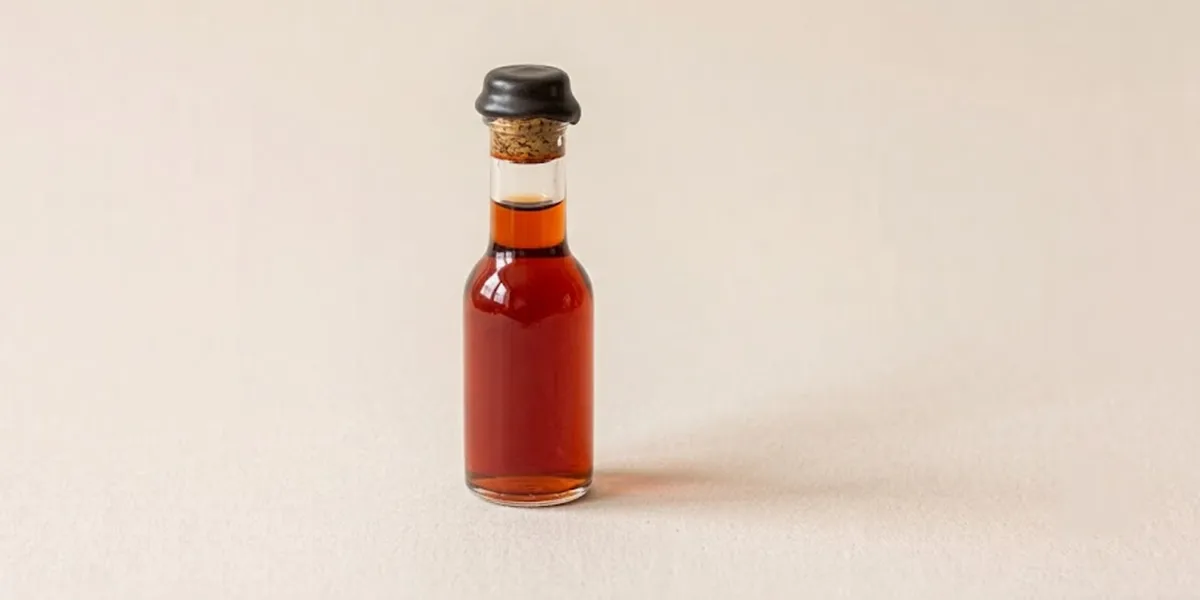
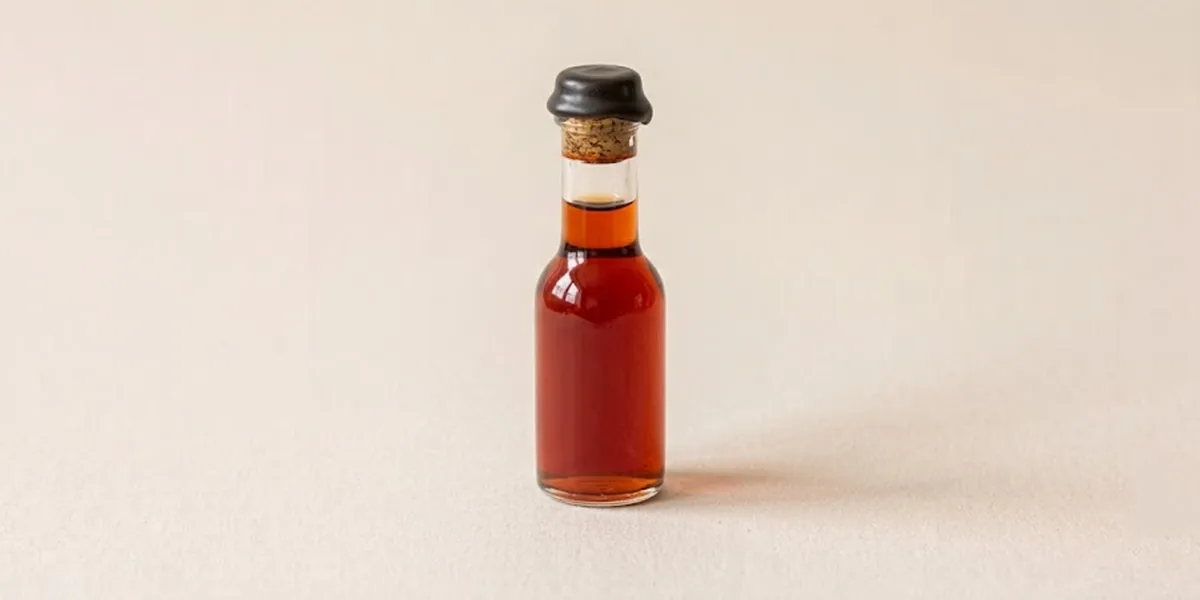
Переработка карточки каталога
- фильтр по классу убран, каталог показывает все шесть позиций
- изображение в край карточки, отступы только у текстовой части
- бирка упрощена: одна полоса поверх низа изображения, полоса города
  удалена, город остался в строке мастерской
- цена отдельной строкой кеглем названия, срок изготовления справа мелко,
  перед строкой разделитель, кнопка под ней
- остаток, состояние мастерской и примечание — одной ремаркой поверх
  изображения в левом верхнем углу
- изображения перекадрированы: предмет по центру, соотношение 2:1

Claude-Session: https://claude.ai/code/session_016DiB3FsN8DV6KWrGAXvXaT

Changed region(s): [[0.37, 0.09, 0.6783, 0.87]]

diff --git a/components/SpellCard.tsx b/components/SpellCard.tsx
@@ -19,63 +19,54 @@ export function SpellCard({ spell }: { spell: Spell }) {
   const isClosed = opensIn > 0
   const opensAt = formatMinutesOfDay(workshop.opensAt)
 
+  // Ремарка на изображении одна: состояние мастерской важнее остатка и примечания.
+  const badge = isClosed
+    ? `закрыто ${DOT} открывается в ${opensAt}`
+    : spell.stock !== undefined
+      ? `осталось ${spell.stock} шт`
+      : spell.note
+
   function handleOrder() {
     selectSpell(spell.id)
     scrollToOrder()
   }
 
   return (
-    <article className="flex flex-col border border-rule p-5">
+    <article className="flex flex-col border border-rule">
       <CargoImage
         id={spell.id}
         name={spell.name}
         hazardClass={spell.hazardClass}
-        city={workshop.city}
         src={spell.image}
+        badge={badge}
       />
 
-      <h3 className="mt-5 text-lg font-medium text-ink">{spell.name}</h3>
-      <p className="mt-1 text-xs text-muted">
-        {workshop.name}
-        {workshop.city ? `, ${workshop.city}` : ''}
-      </p>
-
-      {/* Ситуация в карточке не показывается — она выводится в конфигураторе. */}
-      <p className="mt-4 text-sm leading-relaxed text-ink">{spell.effect}</p>
-
-      <div className="mt-5 flex flex-wrap items-center gap-x-2 gap-y-1 border-t border-rule pt-4 text-xs text-muted">
-        <span>готовится {formatDuration(catalogMinutes(spell))}</span>
-        <span className="text-rule">{DOT}</span>
-        <span className="font-mono text-ink">{formatPrice(spell.price)}</span>
-      </div>
-
-      {spell.stock !== undefined && (
-        <p className="mt-3">
-          <span className="border border-class-2 px-2 py-1 text-xs text-class-2">
-            осталось {spell.stock} шт
-          </span>
+      <div className="flex flex-1 flex-col p-5">
+        <h3 className="text-lg font-medium text-ink">{spell.name}</h3>
+        <p className="mt-1 text-xs text-muted">
+          {workshop.name}
+          {workshop.city ? `, ${workshop.city}` : ''}
         </p>
-      )}
 
-      {isClosed && (
-        <p className="mt-3">
-          <span className="border border-rule px-2 py-1 text-xs text-muted">
-            закрыто {DOT} открывается в {opensAt}
-          </span>
-        </p>
-      )}
+        <p className="mt-4 text-sm leading-relaxed text-ink">{spell.effect}</p>
 
-      {spell.note && <p className="mt-3 text-xs leading-relaxed text-muted">{spell.note}</p>}
+        <div className="mt-auto">
+          <div className="mt-5 flex items-baseline justify-between gap-3 border-t border-rule pt-4">
+            <span className="font-mono text-lg text-ink">{formatPrice(spell.price)}</span>
+            <span className="text-xs text-muted">
+              готовится {formatDuration(catalogMinutes(spell))}
+            </span>
+          </div>
 
-      <div className="mt-auto pt-5">
-        <button
-          type="button"
-          onClick={handleOrder}
-          disabled={isClosed}
-          className="w-full border border-ink bg-ink px-4 py-2.5 text-sm text-paper hover:bg-transparent hover:text-ink disabled:cursor-not-allowed disabled:border-rule disabled:bg-transparent disabled:text-muted"
-        >
-          {isClosed ? `Откроется в ${opensAt}` : 'Оформить'}
-        </button>
+          <button
+            type="button"
+            onClick={handleOrder}
+            disabled={isClosed}
+            className="mt-4 w-full border border-ink bg-ink px-4 py-2.5 text-sm text-paper hover:bg-transparent hover:text-ink disabled:cursor-not-allowed disabled:border-rule disabled:bg-transparent disabled:text-muted"
+          >
+            {isClosed ? `Откроется в ${opensAt}` : 'Оформить'}
+          </button>
+        </div>
       </div>
     </article>
   )

diff --git a/components/CargoImage.tsx b/components/CargoImage.tsx
@@ -9,16 +9,6 @@ const IMAGE_WIDTH = 1200
 const IMAGE_HEIGHT = 600
 const IMAGE_SIZES = '(max-width: 768px) 100vw, 33vw'
 
-type CargoImageProps = {
-  id: string
-  name: string
-  hazardClass: HazardClass
-  city?: string
-  src?: string
-  /** Мини-бирка: только полоса с ромбом и кодом, без области изображения. */
-  compact?: boolean
-}
-
 const BAR_GROUPS = 7
 const HASH_SEED = 5381
 const HASH_SHIFT = 5
@@ -26,6 +16,17 @@ const BAR_MIN = 1
 const GAP_MIN = 2
 const WIDTH_MASK = 3
 const BITS_PER_GROUP = 4
+
+type CargoImageProps = {
+  id: string
+  name: string
+  hazardClass: HazardClass
+  src?: string
+  /** Ремарка поверх изображения в левом верхнем углу. Одна на карточку. */
+  badge?: string
+  /** Мини-бирка: только полоса с ромбом и кодом, без изображения. */
+  compact?: boolean
+}
 
 /** Детерминированный хеш идентификатора: у каждой бирки свой рисунок штрихов. */
 function hashId(id: string): number {
@@ -56,10 +57,10 @@ function barcode(id: string): string {
 }
 
 /**
- * Почтовая бирка груза. Пропс src готов принять изображение;
+ * Груз с почтовой биркой. Пропс src готов принять изображение;
  * без него страница обязана выглядеть законченной.
  */
-export function CargoImage({ id, name, hazardClass, city, src, compact }: CargoImageProps) {
+export function CargoImage({ id, name, hazardClass, src, badge, compact }: CargoImageProps) {
   if (compact) {
     return (
       <figure className="flex shrink-0 items-center gap-3 border border-rule px-3 py-2">
@@ -72,31 +73,30 @@ export function CargoImage({ id, name, hazardClass, city, src, compact }: CargoI
   }
 
   return (
-    <figure className="border border-rule">
-      <div className="relative aspect-[2/1] w-full overflow-hidden bg-paper-shade">
-        {src && (
-          <Image
-            src={src}
-            alt={name}
-            width={IMAGE_WIDTH}
-            height={IMAGE_HEIGHT}
-            sizes={IMAGE_SIZES}
-            className="absolute inset-0 h-full w-full object-cover"
-          />
-        )}
-      </div>
+    <figure className="relative aspect-[2/1] w-full overflow-hidden bg-paper-shade">
+      {src && (
+        <Image
+          src={src}
+          alt={name}
+          width={IMAGE_WIDTH}
+          height={IMAGE_HEIGHT}
+          sizes={IMAGE_SIZES}
+          className="absolute inset-0 h-full w-full object-cover"
+        />
+      )}
 
-      <div className="flex items-center gap-3 border-t border-rule px-4 py-2">
+      {badge && (
+        <span className="absolute left-3 top-3 max-w-[calc(100%-1.5rem)] border border-rule bg-paper/85 px-2 py-1 text-xs leading-tight text-ink">
+          {badge}
+        </span>
+      )}
+
+      <figcaption className="absolute inset-x-0 bottom-0 flex items-center gap-3 border-t border-rule bg-paper/85 px-4 py-2">
         <HazardBadge hazardClass={hazardClass} />
         <span className="min-w-0 flex-1 truncate text-center font-mono text-[0.6875rem] tracking-wider text-ink">
           PL-CARGO-{id.toUpperCase()}
         </span>
         <span aria-hidden className="h-5 w-12 shrink-0" style={{ backgroundImage: barcode(id) }} />
-      </div>
-
-      {/* Строка города рисуется всегда: без неё бирки разной высоты и карточки съезжают. */}
-      <figcaption className="min-h-[1.5rem] border-t border-rule px-4 py-1.5 text-[0.625rem] uppercase leading-none tracking-[0.2em] text-muted">
-        {city}
       </figcaption>
     </figure>
   )

diff --git a/components/Catalog.tsx b/components/Catalog.tsx
@@ -1,18 +1,8 @@
-'use client'
+import { spells } from '@/data/spells'
 
-import { useState } from 'react'
-
-import { spells, type HazardClass } from '@/data/spells'
-
-import { ROMAN } from './HazardBadge'
 import { SpellCard } from './SpellCard'
 
-const CLASSES: HazardClass[] = [1, 2, 3, 4]
-
 export function Catalog() {
-  const [hazardClass, setHazardClass] = useState<HazardClass | null>(null)
-  const shown = hazardClass ? spells.filter((spell) => spell.hazardClass === hazardClass) : spells
-
   return (
     <section id="catalog" className="border-t border-rule">
       <div className="mx-auto w-full max-w-[76rem] px-5 py-14 md:px-8 md:py-20">
@@ -24,37 +14,8 @@ export function Catalog() {
           отдельно.
         </p>
 
-        <div className="mt-8 flex flex-wrap items-center gap-3">
-          <span className="text-xs uppercase tracking-[0.14em] text-muted">Класс отправления</span>
-          <div className="flex flex-wrap items-center gap-2">
-            {CLASSES.map((item) => (
-              <button
-                key={item}
-                type="button"
-                onClick={() => setHazardClass(item)}
-                aria-pressed={hazardClass === item}
-                className={`border px-3 py-1 font-mono text-xs ${
-                  hazardClass === item
-                    ? 'border-ink bg-ink text-paper'
-                    : 'border-rule text-ink hover:border-ink'
-                }`}
-              >
-                {ROMAN[item]}
-              </button>
-            ))}
-            <button
-              type="button"
-              onClick={() => setHazardClass(null)}
-              aria-pressed={hazardClass === null}
-              className="px-1 py-1 text-xs text-muted underline underline-offset-4 hover:text-ink"
-            >
-              Показать все
-            </button>
-          </div>
-        </div>
-
         <div className="mt-8 grid gap-5 sm:grid-cols-2 md:grid-cols-3">
-          {shown.map((spell) => (
+          {spells.map((spell) => (
             <SpellCard key={spell.id} spell={spell} />
           ))}
         </div>

diff --git a/docs/CONTENT.md b/docs/CONTENT.md
@@ -84,10 +84,7 @@
 **Подзаголовок**
 Мастерские готовят, мы везём. Сроки в карточках — время изготовления. Доставка считается отдельно.
 
-**Фильтр по классу опасности**
-Подпись: Класс отправления
-Чипсы: I · II · III · IV
-Кнопка сброса: Показать все
+Каталог всегда показывает все шесть позиций, фильтра нет.
 
 **Подписи классов (тултип на ромбе)**
 - **I** — обычное вложение. Ограничений при перевозке нет.
@@ -100,6 +97,11 @@
 В карточке первая строка после мастерской — ситуация, вторая — эффект.
 Ситуация в карточке не показывается: она выводится в конфигураторе под выбранным
 заклинанием. Эффект идёт строкой без подписи.
+
+Изображение занимает всю ширину карточки. Поверх его нижней части — полоса бирки:
+ромб класса, код отправления, штрихкод. Состояния и примечания показываются одной
+ремаркой поверх изображения в левом верхнем углу. Ниже: название, мастерская с городом,
+эффект, затем строка «цена — срок изготовления» и кнопка.
 
 **1. Кошка**
 Мастерская Фенна, Оксенфурт
